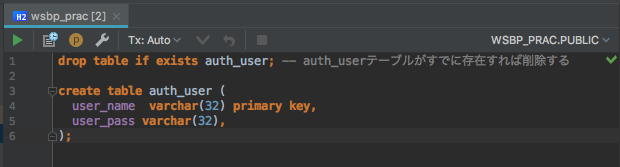
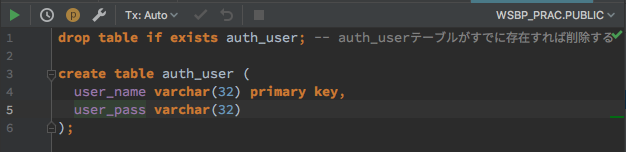
テキストを整形、不要なカンマを削除

diff --git a/doc/C03/01.md b/doc/C03/01.md
@@ -250,23 +250,23 @@ insert into auth_user values (?, ?) [23505-197]
 
 ```
 ブラウザ
-  ↓1　　↑7
-UserMakerPageのFormのonSubmit機能
-  ↓2　　↑6
-IUserServiceのregisterUser機能
-  ↓3　　↑5
-IAuthUserRepositoryのinsert機能
-  ↓  4　↑
+  ↓ 1　　 ↑ 7
+UserMakerPageのFormのonSubmit機能（Wicketの管理化）
+  ↓ 2　　 ↑ 6
+IUserServiceのregisterUser機能（Springの管理下）
+  ↓ 3　　 ↑ 5
+IAuthUserRepositoryのinsert機能（Springの管理下）
+  ↓   4　 ↑
 H2DBのauth_userテーブル
 
 ```
 
-1. ブラウザから入力・送信された値は、UserMakerPage のFormのonSubmitの中で取得される
-2. UserMakerPage の Form は、 IUserService のregisterUser機能に、取得した入力値（記録してほしいユーザIdとパスワード）を依頼する
-3. IUserService の registerUser 機能は、渡された入力値を IAuthUserRepository の insert 機能に依頼する
-4. IAuthUserRepository の insert 機能 は、H2DBにデータの登録を依頼し、呼び出し元に記録行数を返す
-5. IUserService の registerUser 機能は、IAuthUserRepository から報告された記録行数を標準出力に表示する
-6. UserMakerPage の Form は、IUserService の registerUser機能の終了後、次のページをブラウザに返す
+1. ブラウザから入力・送信された値は、**UserMakerPage の Form の onSubmit  の中で取得**される
+2. UserMakerPage の Form は、 **IUserService のregisterUser機能に、取得した入力値（記録してほしいユーザIdとパスワード）を依頼**する
+3. IUserService の registerUser 機能は、**渡された入力値を IAuthUserRepository の insert 機能に依頼**する
+4. IAuthUserRepository の insert 機能 は、**H2DBにデータの登録を依頼し、呼び出し元に記録行数を返す**
+5. IUserService の registerUser 機能は、**IAuthUserRepository から返された記録行数を標準出力に表示**する
+6. UserMakerPage の Form は、**IUserService の registerUser機能の終了後、UserMakerCompPageを作ってブラウザに返す**
 7. ブラウザに UserMakerCompPage が表示される
 
 ## 課題

diff --git a/doc/C02/01.md b/doc/C02/01.md
@@ -84,7 +84,7 @@ drop table if exists auth_user; -- auth_userテーブルがすでに存在すれ
 
 create table auth_user (
   user_name varchar(32) primary key,
-  user_pass varchar(32),
+  user_pass varchar(32)
 );
 ```
 
